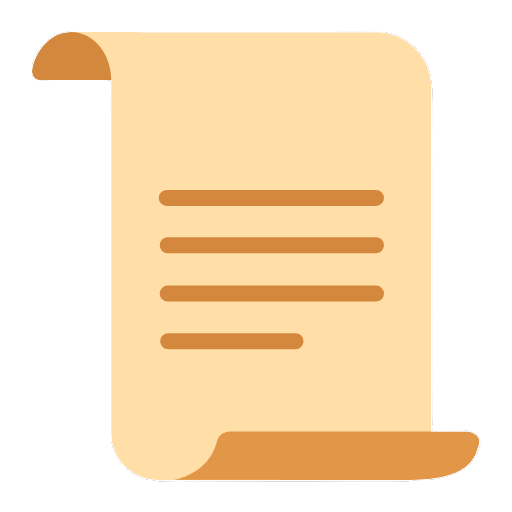
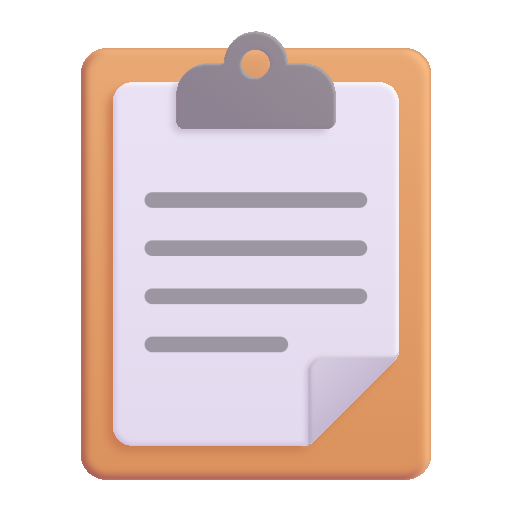
更新图标文件并将docker镜像版本升级至v2.2.1，优化README文档内容

diff --git a/README.md b/README.md
@@ -1,20 +1,50 @@
-# Ech0s
+# Ech0 - 极致轻量的自托管Memo工具
 
-developing
+<p align="center">
+  <img alt="Ech0" src="./docs/imgs/FluentEmojiClipboard.svg" width="320">
+</p>
 
-## docker-componse部署
-创建一个新目录并将 docker-compose.yml 文件放入其中
-在该目录下执行以下命令启动服务：
-```shell
-docker-compose up -d
-```
+**单文件架构**的极简备忘录系统，专注核心记录功能，10.8MB内存即可流畅运行。私人数据完全掌控，支持RSS订阅与永久存档。
 
-## docker部署
+![界面预览](./docs/imgs/screenshot.png)
+
+---
+
+## 核心优势
+
+☁ **原子级轻量**：内存占用仅10.8MB，单SQLite文件存储架构  
+🚀 **极速部署**：无需配置，从安装到使用只需1条命令  
+✍ **零干扰写作**：纯净Markdown编辑器，支持快捷键操作  
+📦 **数据主权**：所有内容存储于本地SQLite文件，支持RSS订阅导出  
+🎉 **永久免费**：MIT协议开源，无追踪/无订阅/无服务依赖
+🌍 **跨端适配**：完美兼容桌面/移动浏览器  
+
+---
+
+## 10秒部署
+
+### docker部署
 
 ```shell
 docker run -d \
   --name ech0 \
   -p 1314:1314 \
   -v /opt/ech0/data:/app/data \
-  sn0wl1n/ech0:v2.2.0
+  sn0wl1n/ech0:v2.2.1
 ```
+
+> 💡 部署完成后访问 ip:1314 即可使用
+> 📍 首次使用注册的账号会被设置为管理员（目前仅管理员支持发布内容）
+
+### docker-componse部署
+
+创建一个新目录并将 `docker-compose.yml` 文件放入其中
+在该目录下执行以下命令启动服务：
+
+```shell
+docker-compose up -d
+```
+
+---
+
+<p align="center">「少即是多」—— 路德维希·密斯·凡德罗</p>
